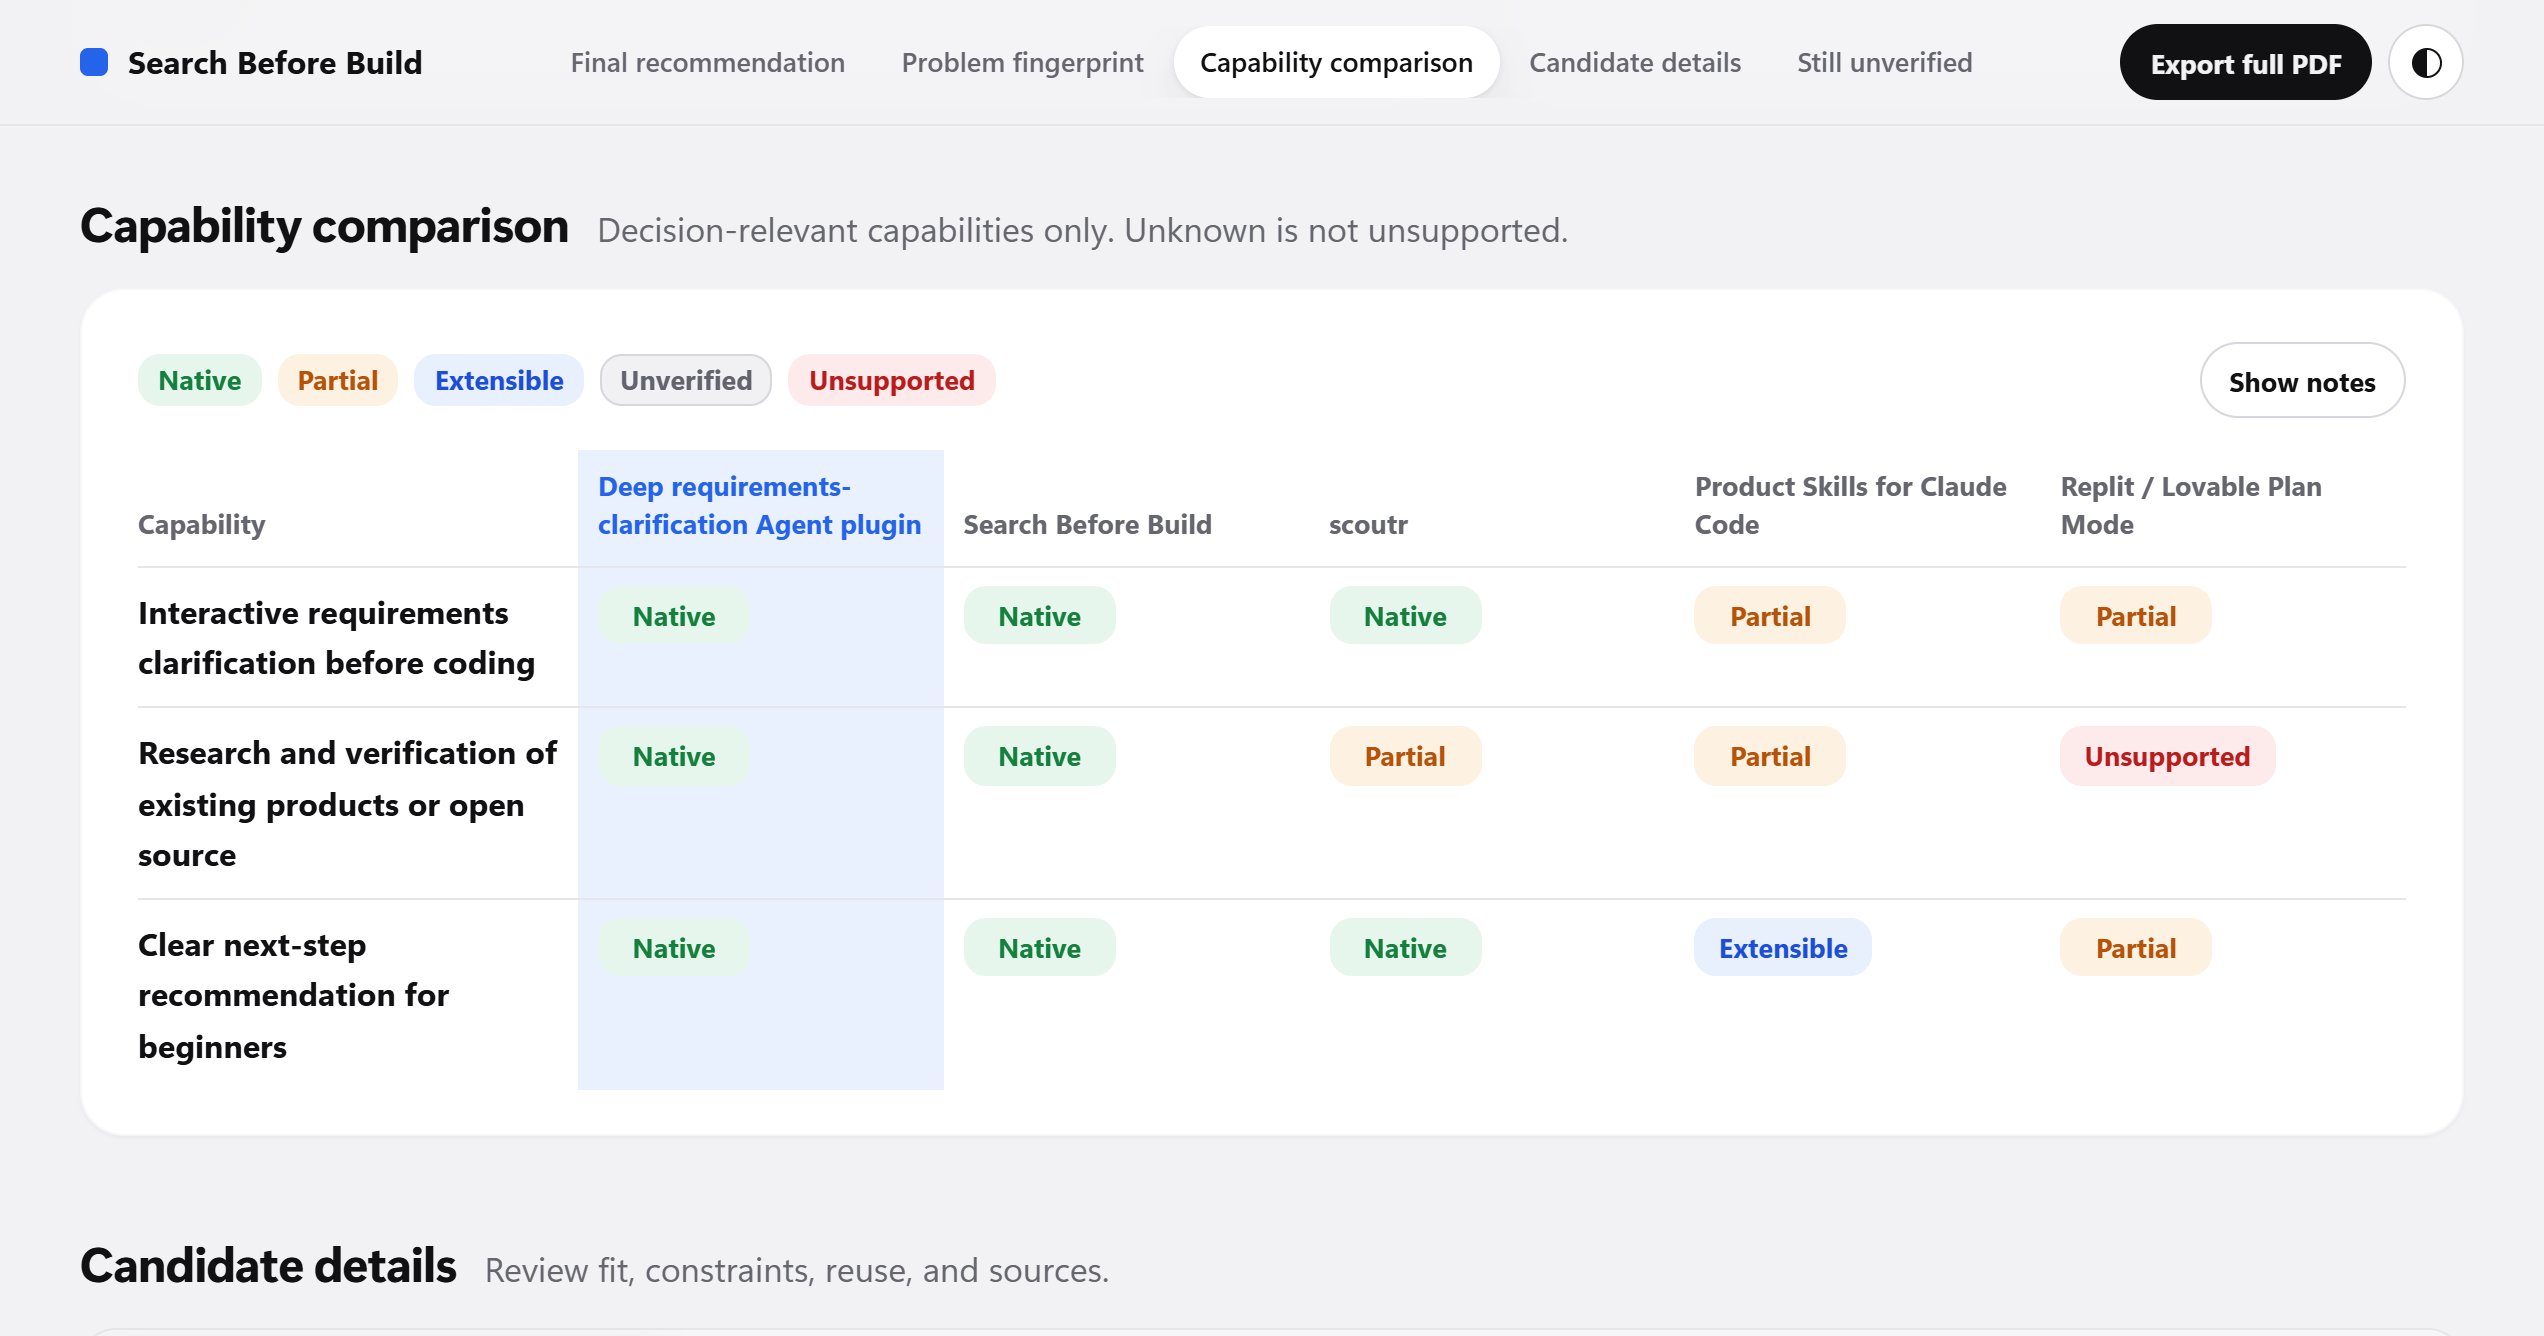
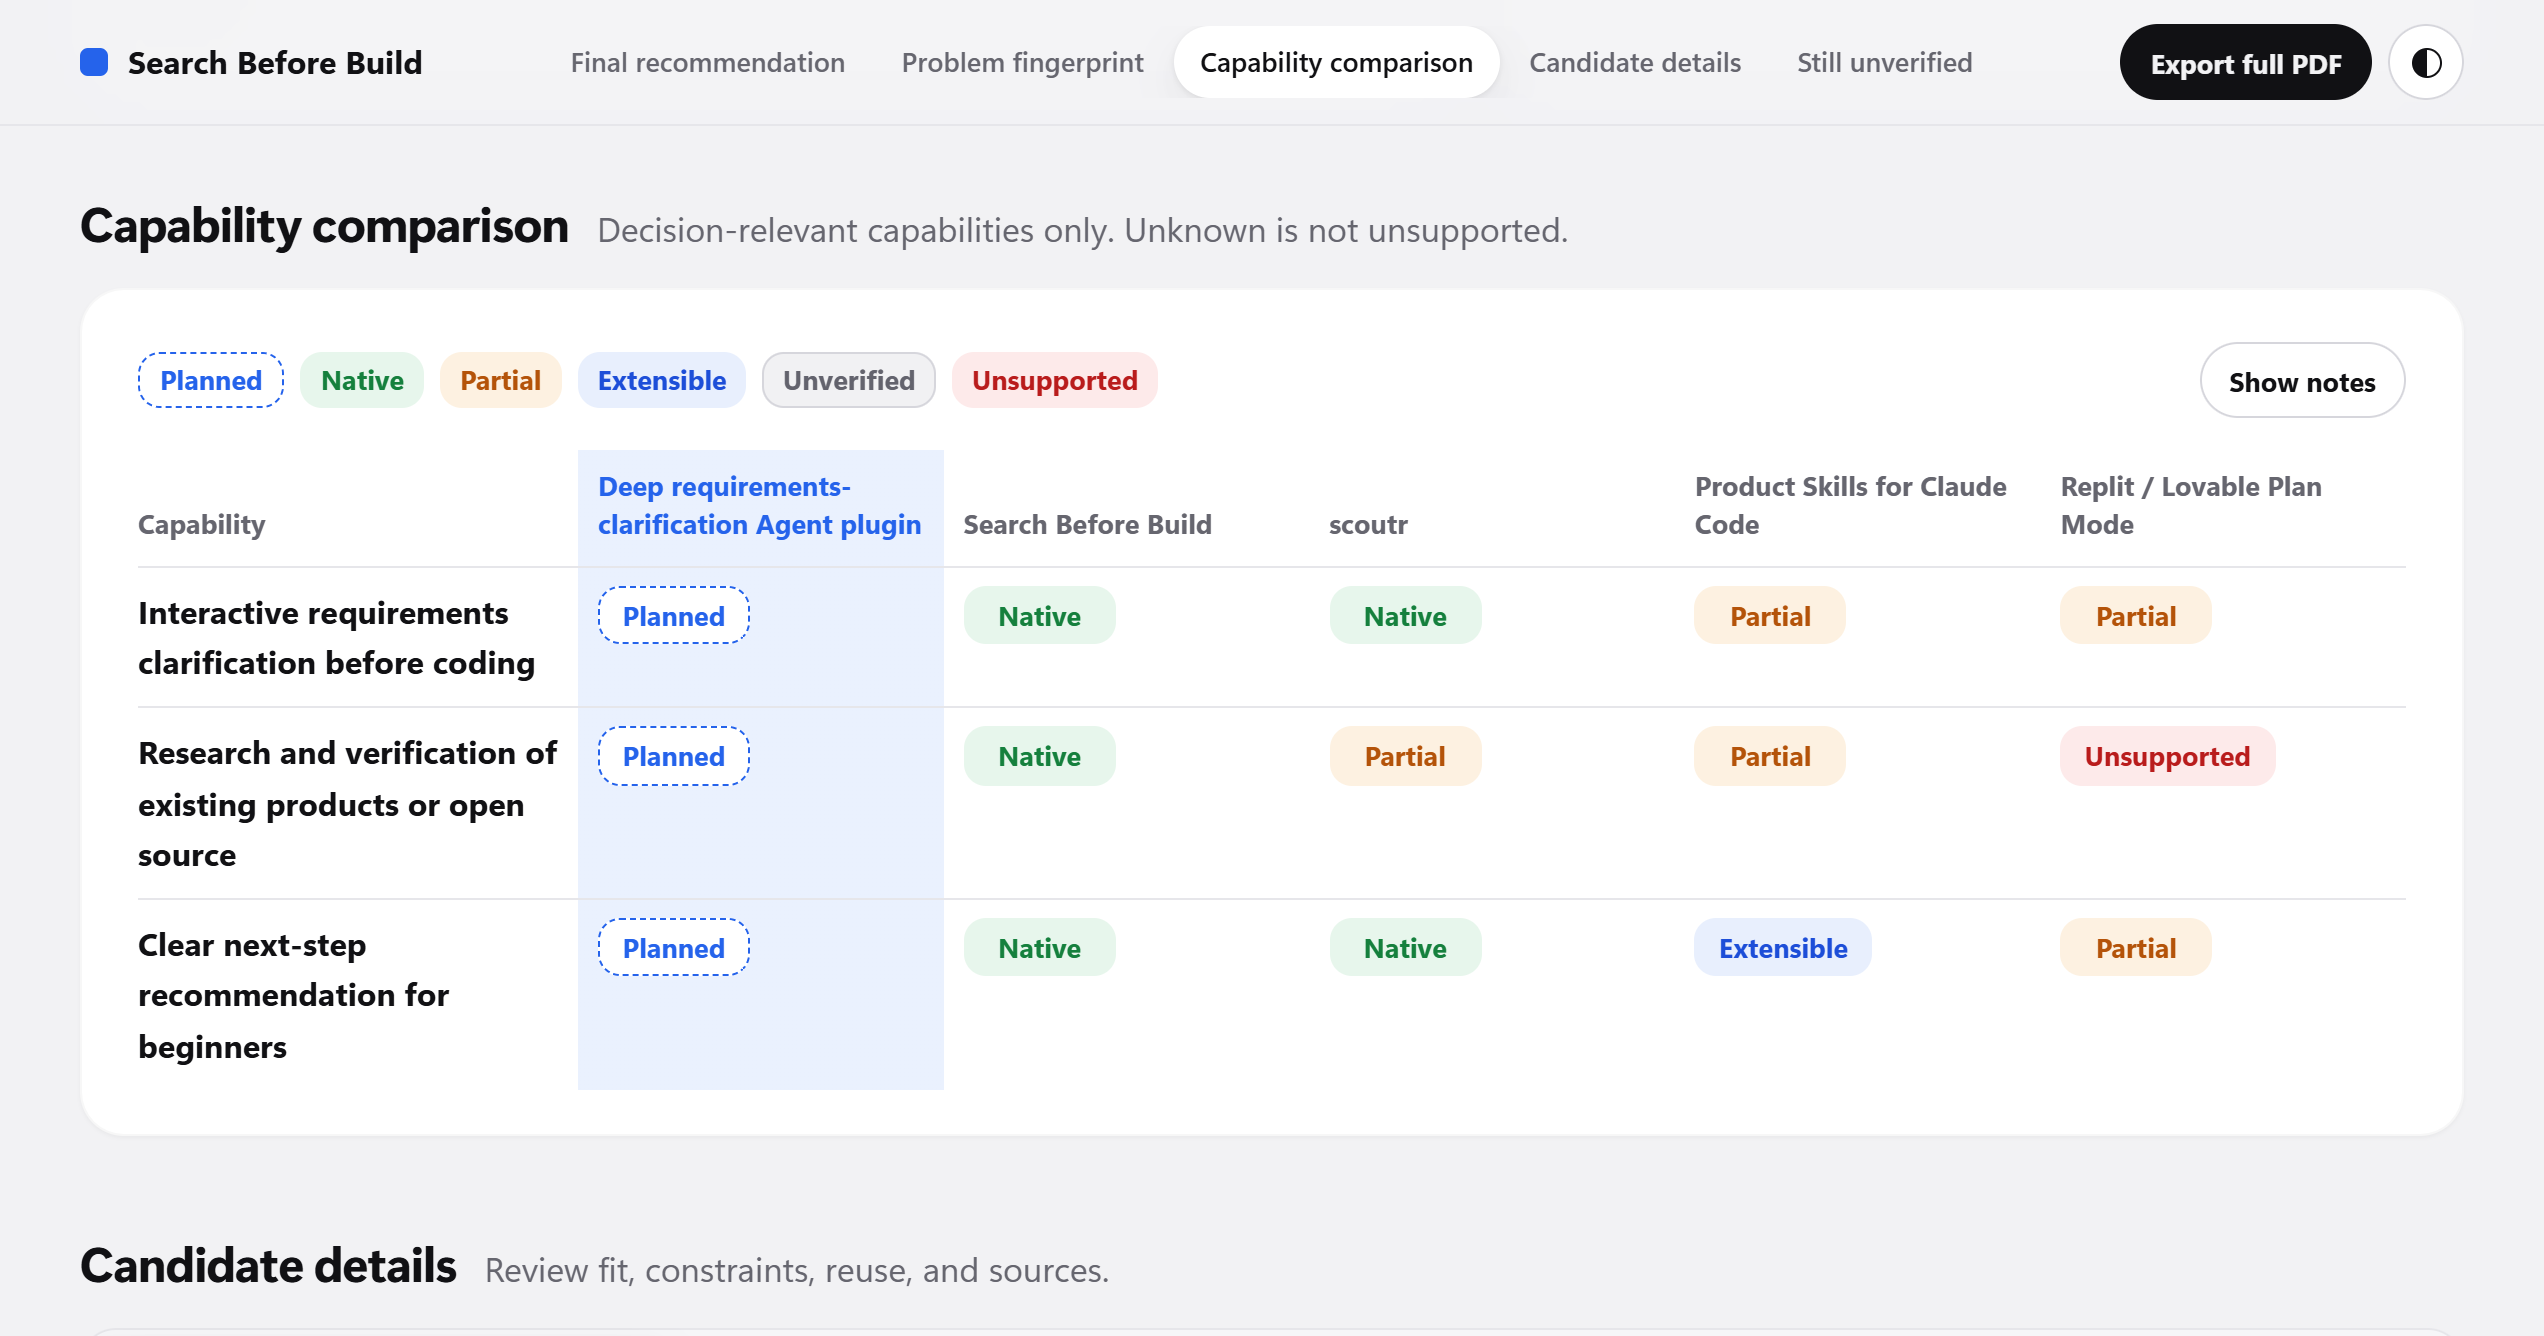
Mark the user's own intended capabilities as planned
An idea has nothing implemented yet, so the rule "record a planned
capability as unsupported" turned every cell of an idea's own column
into Unsupported. Add a `planned` status for the current column only:
every capability of an idea, and each planned-only capability of an
existing project. The renderer rejects `planned` for candidates and
requires it across the column when the subject is an idea; the viewer
shows it as a dashed "Planned" badge and adds it to the legend.

diff --git a/docs/index.html b/docs/index.html
@@ -528,6 +528,7 @@
       .support-badge[data-status="partial"] { color: var(--s-partial); background: var(--s-partial-bg); }
       .support-badge[data-status="extensible"] { color: var(--s-ext); background: var(--s-ext-bg); }
       .support-badge[data-status="unverified"] { color: var(--s-unv); background: var(--s-unv-bg); box-shadow: inset 0 0 0 1px var(--border-strong); }
+      .support-badge[data-status="planned"] { color: var(--tone); background: var(--card); border: 1px dashed var(--tone); padding: 5px 11px; }
       .support-badge[data-status="unsupported"] { color: var(--s-none); background: var(--s-none-bg); }
       .support-badge[data-status="missing"] { color: var(--faint); background: transparent; box-shadow: inset 0 0 0 1px var(--border); }
 
@@ -1495,7 +1496,7 @@
         const snapshotMode = window.name === SNAPSHOT_NAME;
         const pristineDocument = snapshotMode ? "" : `<!doctype html>\n${document.documentElement.outerHTML}`;
 
[2 lines of base64/hex data omitted]
         const bytes = Uint8Array.from(atob(encodedReport), (character) => character.charCodeAt(0));
         const report = JSON.parse(new TextDecoder().decode(bytes));
 
@@ -1638,6 +1639,7 @@
               extensible: "可通过扩展实现",
               unsupported: "不支持",
               unverified: "尚未验证",
+              planned: "计划支持",
             }
           : {
               native: "Native",
@@ -1645,8 +1647,13 @@
               extensible: "Extensible",
               unsupported: "Unsupported",
               unverified: "Unverified",
+              planned: "Planned",
             };
         const supportOrder = ["native", "partial", "extensible", "unverified", "unsupported"];
+        // `planned` only marks the user's own intended capabilities; list it when that column uses it.
+        const legendOrder = report.capabilities.some((capability) => capability.current.status === "planned")
+          ? ["planned", ...supportOrder]
+          : supportOrder;
         const verdictKeys = { Build: "build", Adapt: "adapt", "Use existing": "use-existing", Stop: "stop" };
         const verdictPlainKeys = { Build: "verdictBuild", Adapt: "verdictAdapt", "Use existing": "verdictUseExisting", Stop: "verdictStop" };
 
@@ -1909,7 +1916,7 @@
           return wrapper;
         };
 
-        supportOrder.forEach((status) => {
+        legendOrder.forEach((status) => {
           const badge = element("span", "support-badge", supportLabels[status]);
           badge.dataset.status = status;
           $("matrix-legend").append(badge);

diff --git a/docs/zh/index.html b/docs/zh/index.html
@@ -528,6 +528,7 @@
       .support-badge[data-status="partial"] { color: var(--s-partial); background: var(--s-partial-bg); }
       .support-badge[data-status="extensible"] { color: var(--s-ext); background: var(--s-ext-bg); }
       .support-badge[data-status="unverified"] { color: var(--s-unv); background: var(--s-unv-bg); box-shadow: inset 0 0 0 1px var(--border-strong); }
+      .support-badge[data-status="planned"] { color: var(--tone); background: var(--card); border: 1px dashed var(--tone); padding: 5px 11px; }
       .support-badge[data-status="unsupported"] { color: var(--s-none); background: var(--s-none-bg); }
       .support-badge[data-status="missing"] { color: var(--faint); background: transparent; box-shadow: inset 0 0 0 1px var(--border); }
 
@@ -1495,7 +1496,7 @@
         const snapshotMode = window.name === SNAPSHOT_NAME;
         const pristineDocument = snapshotMode ? "" : `<!doctype html>\n${document.documentElement.outerHTML}`;
 
[2 lines of base64/hex data omitted]
         const bytes = Uint8Array.from(atob(encodedReport), (character) => character.charCodeAt(0));
         const report = JSON.parse(new TextDecoder().decode(bytes));
 
@@ -1638,6 +1639,7 @@
               extensible: "可通过扩展实现",
               unsupported: "不支持",
               unverified: "尚未验证",
+              planned: "计划支持",
             }
           : {
               native: "Native",
@@ -1645,8 +1647,13 @@
               extensible: "Extensible",
               unsupported: "Unsupported",
               unverified: "Unverified",
+              planned: "Planned",
             };
         const supportOrder = ["native", "partial", "extensible", "unverified", "unsupported"];
+        // `planned` only marks the user's own intended capabilities; list it when that column uses it.
+        const legendOrder = report.capabilities.some((capability) => capability.current.status === "planned")
+          ? ["planned", ...supportOrder]
+          : supportOrder;
         const verdictKeys = { Build: "build", Adapt: "adapt", "Use existing": "use-existing", Stop: "stop" };
         const verdictPlainKeys = { Build: "verdictBuild", Adapt: "verdictAdapt", "Use existing": "verdictUseExisting", Stop: "verdictStop" };
 
@@ -1909,7 +1916,7 @@
           return wrapper;
         };
 
-        supportOrder.forEach((status) => {
+        legendOrder.forEach((status) => {
           const badge = element("span", "support-badge", supportLabels[status]);
           badge.dataset.status = status;
           $("matrix-legend").append(badge);

diff --git a/assets/report-viewer.html b/assets/report-viewer.html
@@ -528,6 +528,7 @@
       .support-badge[data-status="partial"] { color: var(--s-partial); background: var(--s-partial-bg); }
       .support-badge[data-status="extensible"] { color: var(--s-ext); background: var(--s-ext-bg); }
       .support-badge[data-status="unverified"] { color: var(--s-unv); background: var(--s-unv-bg); box-shadow: inset 0 0 0 1px var(--border-strong); }
+      .support-badge[data-status="planned"] { color: var(--tone); background: var(--card); border: 1px dashed var(--tone); padding: 5px 11px; }
       .support-badge[data-status="unsupported"] { color: var(--s-none); background: var(--s-none-bg); }
       .support-badge[data-status="missing"] { color: var(--faint); background: transparent; box-shadow: inset 0 0 0 1px var(--border); }
 
@@ -1637,6 +1638,7 @@
               extensible: "可通过扩展实现",
               unsupported: "不支持",
               unverified: "尚未验证",
+              planned: "计划支持",
             }
           : {
               native: "Native",
@@ -1644,8 +1646,13 @@
               extensible: "Extensible",
               unsupported: "Unsupported",
               unverified: "Unverified",
+              planned: "Planned",
             };
         const supportOrder = ["native", "partial", "extensible", "unverified", "unsupported"];
+        // `planned` only marks the user's own intended capabilities; list it when that column uses it.
+        const legendOrder = report.capabilities.some((capability) => capability.current.status === "planned")
+          ? ["planned", ...supportOrder]
+          : supportOrder;
         const verdictKeys = { Build: "build", Adapt: "adapt", "Use existing": "use-existing", Stop: "stop" };
         const verdictPlainKeys = { Build: "verdictBuild", Adapt: "verdictAdapt", "Use existing": "verdictUseExisting", Stop: "verdictStop" };
 
@@ -1908,7 +1915,7 @@
           return wrapper;
         };
 
-        supportOrder.forEach((status) => {
+        legendOrder.forEach((status) => {
           const badge = element("span", "support-badge", supportLabels[status]);
           badge.dataset.status = status;
           $("matrix-legend").append(badge);

diff --git a/tests/validation/validate_report.py b/tests/validation/validate_report.py
@@ -69,7 +69,8 @@ def validate() -> None:
     assert "Only the `assess` Skill renders this viewer" in report_viewer
     assert "Set `subject` to `project` when the user supplied material about an existing project" in report_viewer
     assert "`mode`" not in report_viewer
-    assert "only as planned as `unsupported`" in report_viewer
+    assert "when `subject` is `idea`, every current cell is `planned`" in report_viewer
+    assert "Never use `planned` for a candidate" in read_text("references/research-method.md")
     assert "do not write competitor reports into the current project by default" in report_template.lower()
     assert "user-initiated download or copy action" in report_template.lower()
     assert "optional persistence" in research_method.lower()
@@ -301,6 +302,30 @@ def validate() -> None:
         subject_result = _run_renderer(invalid_input, Path(directory) / "invalid.html")
         assert subject_result.returncode != 0
         assert "report.subject must be idea or project" in subject_result.stderr
+
+        # An idea has nothing implemented yet: its own column must read `planned`.
+        unplanned_idea = deepcopy(fixture_data)
+        unplanned_idea["subject"] = "idea"
+        invalid_input.write_text(json.dumps(unplanned_idea), encoding="utf-8")
+        idea_result = _run_renderer(invalid_input, Path(directory) / "invalid.html")
+        assert idea_result.returncode != 0
+        assert "must be planned when report.subject is idea" in idea_result.stderr
+
+        planned_idea = deepcopy(unplanned_idea)
+        for capability in planned_idea["capabilities"]:
+            capability["current"]["status"] = "planned"
+        planned_input = Path(directory) / "planned-idea.json"
+        planned_input.write_text(json.dumps(planned_idea), encoding="utf-8")
+        planned_result = _run_renderer(planned_input, Path(directory) / "planned.html")
+        assert planned_result.returncode == 0, planned_result.stderr
+
+        planned_candidate = deepcopy(fixture_data)
+        first_capability = planned_candidate["capabilities"][0]
+        first_capability["candidates"][next(iter(first_capability["candidates"]))]["status"] = "planned"
+        invalid_input.write_text(json.dumps(planned_candidate), encoding="utf-8")
+        candidate_result = _run_renderer(invalid_input, Path(directory) / "invalid.html")
+        assert candidate_result.returncode != 0
+        assert ".candidates." in candidate_result.stderr
 
         consume_result = _run_renderer(
             fixture,

diff --git a/references/report-viewer.md b/references/report-viewer.md
@@ -75,7 +75,7 @@ Write UTF-8 JSON with this shape. Use the target display language for every free
 }
 ```
 
-Set `subject` to `project` when the user supplied material about an existing project (repository, prototype, plan, documentation, or promotional images); otherwise set it to `idea`. In `capabilities[].current`, record a capability that the material shows only as planned as `unsupported` and say in its note that it is planned. Use exactly `Build`, `Adapt`, `Use existing`, or `Stop` for `recommendation.value`. Use exactly `used`, `limited`, or `unavailable` for coverage status. Use the stable support enums from `research-method.md` in every capability cell.
+Set `subject` to `project` when the user supplied material about an existing project (repository, prototype, plan, documentation, or promotional images); otherwise set it to `idea`. In `capabilities[].current`, use `planned` as `research-method.md` defines it; when `subject` is `idea`, every current cell is `planned`. Use exactly `Build`, `Adapt`, `Use existing`, or `Stop` for `recommendation.value`. Use exactly `used`, `limited`, or `unavailable` for coverage status. Use the stable support enums from `research-method.md` in every capability cell.
 
 Candidate IDs must be unique and must match the keys used under `capabilities[].candidates`. Omit a candidate entry when that capability was not compared; do not invent evidence to fill the matrix.
 

diff --git a/references/research-method.md b/references/research-method.md
@@ -99,6 +99,8 @@ For every material capability use exactly one value:
 - **`unsupported`**: reliable evidence shows the capability is absent or incompatible.
 - **`unverified`**: evidence is insufficient. Never silently convert this to `unsupported`.
 
+The current project's own column may also use **`planned`**: the user intends the capability but it is not implemented. Use it for every capability of an idea and for each capability an existing project shows only as planned. Never use `planned` for a candidate.
+
 Use these exact lowercase values in the internal evidence package. Do not translate them there; `report-template.md` owns localized display labels.
 
 Also compare adoption effort, operating mode, maintenance, license/price, data or deployment constraints, and migration cost. Date time-sensitive facts. Separate verified facts from inference.

diff --git a/references/report-template.md b/references/report-template.md
@@ -31,6 +31,7 @@ Research evidence uses stable enums. Never expose a raw enum in the report when 
 | `extensible` | 可通过扩展实现 | Extensible |
 | `unsupported` | 不支持 | Unsupported |
 | `unverified` | 尚未验证 | Unverified |
+| `planned` | 计划支持 | Planned |
 
 ## Semantic report structure
 
